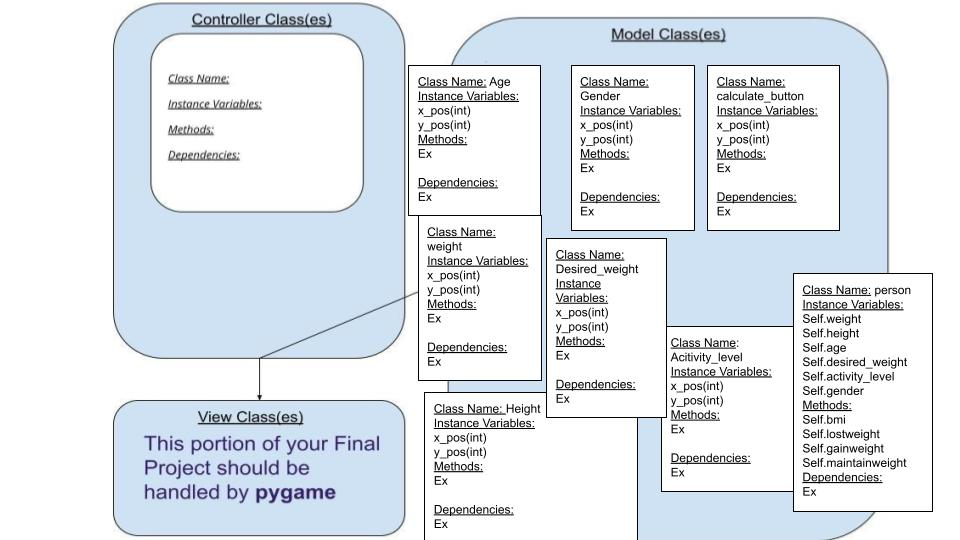
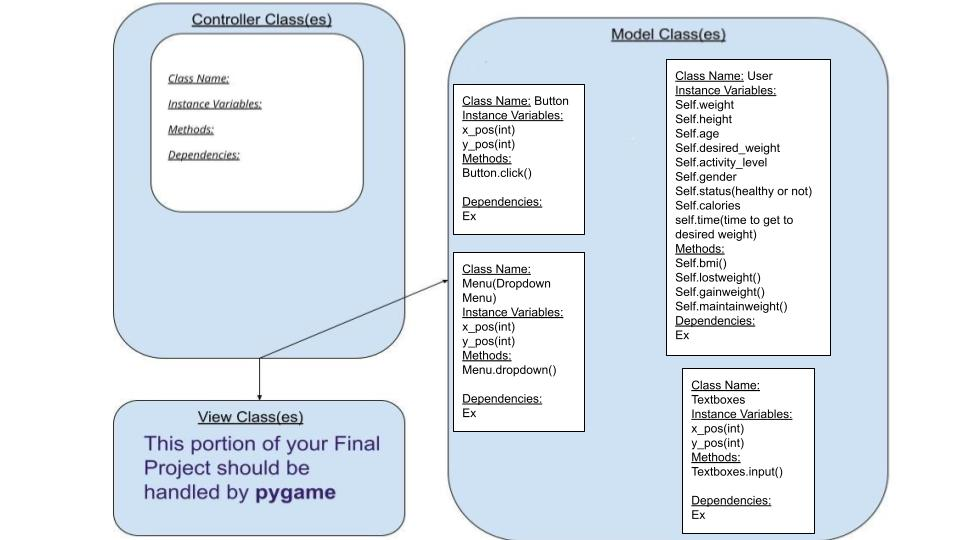
Updated Class and GUI image in README.md deleted Class for the result page

Changed region(s): [[0.4375, 0.0889, 0.9375, 1.0]]

diff --git a/README.md b/README.md
@@ -40,11 +40,9 @@ eating along with the macronutrient percentages to reach that weight and body fa
         * a short description of the module
 * Class Interface Design
     * << A simple drawing that shows the class relationships in your code (see below for an example). >>
-        * Classes for GUI 1 (main page)
+        * Classes for GUI (main page)
           ![class diagram](assets/mainpage_Classes.jpg)
-    
-        * Classes for GUI 2 (Results page)
-          ![class diagram](assets/resultpage_Classes.jpg)
+        
     * This does not need to be overly detailed, but should show how your code fits into the Model/View/Controller paradigm.
 * Classes
     * Classes for GUI 1 Main page: Age, gender, weight, desired_weight, height, activity level. (text boxes that takes inputs)
